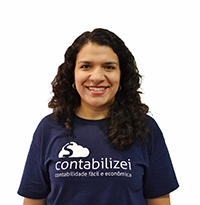
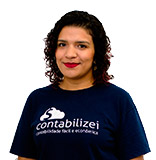
Atualização página sobre nós.

diff --git a/contabilizei-contabilidade-online/index.html b/contabilizei-contabilidade-online/index.html
@@ -157,7 +157,7 @@
 	            <br><p><strong>Missão:</strong> somos apaixonados por contabilidade e queremos democratizar os serviços contábeis para que micro e pequenos empresários possam manter seus negócios regularizados através de uma contabilidade fácil e econômica.</p>
 	          </div>
             <div class="col-lg-6 col-md-6 col-sm-6" align="center">
-				<img alt="equipe contabilizei contabilidade online" retina="true" src="/../assets/img/equipe.jpg" class="img-thumbnail img-responsive">
+				<img alt="equipe contabilizei contabilidade online" retina="true" src="/assets/img/equipe.jpg" class="img-thumbnail img-responsive">
             </div><!-- /.col-lg-6 -->
 	        </div> <!--row-->
         </div>
@@ -172,58 +172,76 @@
         	</div>
         	<div class="row" align="center">
 
-
+                
+                <div class="col-lg-3 col-md-3 col-sm-3">
+					<img alt="equipe contabilizei contabilidade online" retina="true" src="/assets/img/equipe/aline.jpg" class="img-rounded img-responsive" style="height:160px">
+        			<h6><strong>Aline Güthner</strong></h6>
+        			<h6>Analista Contábil</h6>
+        		</div>
+                
+                
         		<div class="col-lg-3 col-md-3 col-sm-3">
-					<img alt="equipe contabilizei contabilidade online" retina="true" src="/../assets/img/equipe/anderson.jpg" class="img-rounded img-responsive" style="height:160px">
+					<img alt="equipe contabilizei contabilidade online" retina="true" src="/assets/img/equipe/anderson.jpg" class="img-rounded img-responsive" style="height:160px">
         			<h6><strong>Anderson Engroff</strong></h6>
         			<h6>Desenvolvedor Ninja</h6>
         		</div>
+                
+                <div class="col-lg-3 col-md-3 col-sm-3">
+					<img alt="equipe contabilizei contabilidade online" retina="true" src="/assets/img/equipe/andressa.jpg" class="img-rounded img-responsive" style="height:160px">
+        			<h6><strong>Andressa Pereira</strong></h6>
+        			<h6>Especialista Societário</h6>
+        		</div>
 
         		<div class="col-lg-3 col-md-3 col-sm-3">
-					<img alt="equipe contabilizei contabilidade online" retina="true" src="/../assets/img/equipe/andrea.jpg" class="img-rounded img-responsive" style="height:160px">
+					<img alt="equipe contabilizei contabilidade online" retina="true" src="/assets/img/equipe/andrea.jpg" class="img-rounded img-responsive" style="height:160px">
         			<h6><strong>Andrea Krueger</strong></h6>
         			<h6>Analista Contábil <small><strong>(CRC-PR 067730/O-7)</strong></small></h6>
         		</div>
 
-        		<div class="col-lg-3 col-md-3 col-sm-3">
-					<img alt="equipe contabilizei contabilidade online" retina="true" src="/../assets/img/equipe/barbara.jpg" class="img-rounded img-responsive" style="height:160px">
+        		
+
+
+
+<!--
+        	</div>row<br><br>
+
+        	<div class="row" align="center">
+-->
+                
+                <div class="col-lg-3 col-md-3 col-sm-3">
+					<img alt="equipe contabilizei contabilidade online" retina="true" src="/assets/img/equipe/barbara.jpg" class="img-rounded img-responsive" style="height:160px">
         			<h6><strong>Bárbara Moreno</strong></h6>
         			<h6>Analista Societário</h6>
         		</div>
 
         		<div class="col-lg-3 col-md-3 col-sm-3">
-					<img alt="equipe contabilizei contabilidade online" retina="true" src="/../assets/img/equipe/bruno.jpg" class="img-rounded img-responsive" style="height:160px">
+					<img alt="equipe contabilizei contabilidade online" retina="true" src="/assets/img/equipe/bruno.jpg" class="img-rounded img-responsive" style="height:160px">
         			<h6><strong>Bruno Ferreira</strong></h6>
         			<h6>Financeiro</h6>
         		</div>
-
-
-
-        	</div><!--row--><br><br>
-
-        	<div class="row" align="center">
-
+                
+                
         		<div class="col-lg-3 col-md-3 col-sm-3">
-					<img alt="equipe contabilizei contabilidade online" retina="true" src="/../assets/img/equipe/charles.jpg" class="img-rounded img-responsive" style="height:160px">
+					<img alt="equipe contabilizei contabilidade online" retina="true" src="/assets/img/equipe/charles.jpg" class="img-rounded img-responsive" style="height:160px">
         			<h6><strong>Charles Gularte</strong></h6>
         			<h6>Operações</h6>
         		</div>
 
         		<div class="col-lg-3 col-md-3 col-sm-3">
-					<img alt="equipe contabilizei contabilidade online" retina="true" src="/../assets/img/equipe/cris.jpg" class="img-rounded img-responsive" style="height:160px">
+					<img alt="equipe contabilizei contabilidade online" retina="true" src="/assets/img/equipe/cris.jpg" class="img-rounded img-responsive" style="height:160px">
         			<h6><strong>Cristiane Morais</strong></h6>
         			<h6>Auxiliar Contábil</h6>
         		</div>
 
         		<div class="col-lg-3 col-md-3 col-sm-3">
-					<img alt="equipe contabilizei contabilidade online" retina="true" src="/../assets/img/equipe/denise.jpg" class="img-rounded img-responsive" style="height:160px">
+					<img alt="equipe contabilizei contabilidade online" retina="true" src="/assets/img/equipe/denise.jpg" class="img-rounded img-responsive" style="height:160px">
         			<h6><strong>Denise Helena</strong></h6>
-        			<h6>Encantadora de Clientes</h6>
+        			<h6>Engajamento</h6>
         		</div>
         		<div class="col-lg-3 col-md-3 col-sm-3">
-					<img alt="equipe contabilizei contabilidade online" retina="true" src="/../assets/img/equipe/desiree.jpg" class="img-rounded img-responsive" style="height:160px">
+					<img alt="equipe contabilizei contabilidade online" retina="true" src="/assets/img/equipe/desiree.jpg" class="img-rounded img-responsive" style="height:160px">
         			<h6><strong>Desirée Almeida</strong></h6>
-        			<h6>Encantadora de Clientes</h6>
+        			<h6>Aquisição</h6>
         		</div>
 
 
@@ -231,64 +249,85 @@
 
 
 
-        	</div><!--row--><br><br>
+
+<!--
+        	</div>row<br><br>
 
         	<div class="row" align="center">
+-->
 
         		<div class="col-lg-3 col-md-3 col-sm-3">
-					<img alt="equipe contabilizei contabilidade online" retina="true" src="/../assets/img/equipe/diego.jpg" class="img-rounded img-responsive" style="height:160px">
+					<img alt="equipe contabilizei contabilidade online" retina="true" src="/assets/img/equipe/diego.jpg" class="img-rounded img-responsive" style="height:160px">
         			<h6><strong>Diego de Carvalho</strong></h6>
         			<h6>Desenvolvedor Ninja</h6>
         		</div>
 
         		<div class="col-lg-3 col-md-3 col-sm-3">
-					<img alt="equipe contabilizei contabilidade online" retina="true" src="/../assets/img/equipe/eduardo.jpg" class="img-rounded img-responsive" style="height:160px">
+					<img alt="equipe contabilizei contabilidade online" retina="true" src="/assets/img/equipe/eduardo.jpg" class="img-rounded img-responsive" style="height:160px">
         			<h6><strong>Eduardo Souza</strong></h6>
         			<h6>Desenvolvedor Ninja</h6>
         		</div>
         		<div class="col-lg-3 col-md-3 col-sm-3">
-					<img alt="equipe contabilizei contabilidade online" retina="true" src="/../assets/img/equipe/elio.jpg" class="img-rounded img-responsive" style="height:160px">
+					<img alt="equipe contabilizei contabilidade online" retina="true" src="/assets/img/equipe/elio.jpg" class="img-rounded img-responsive" style="height:160px">
         			<h6><strong>Elio Marcolino</strong></h6>
         			<h6>Desenvolvedor Ninja</h6>
         		</div>
 
         		<div class="col-lg-3 col-md-3 col-sm-3">
-					<img alt="equipe contabilizei contabilidade online" retina="true" src="/../assets/img/equipe/fabio.jpg" class="img-rounded img-responsive" style="height:160px">
+					<img alt="equipe contabilizei contabilidade online" retina="true" src="/assets/img/equipe/fabio.jpg" class="img-rounded img-responsive" style="height:160px">
         			<h6><strong>Fábio Bacarin</strong></h6>
         			<h6>CTO</h6>
         		</div>
 
+                
+                <div class="col-lg-3 col-md-3 col-sm-3">
+					<img alt="equipe contabilizei contabilidade online" retina="true" src="/assets/img/equipe/fabioribeiro.jpg" class="img-rounded img-responsive" style="height:160px">
+        			<h6><strong>Fabio Ribeiro</strong></h6>
+        			<h6>Analista Societário</h6>
+        		</div>
 
 
 
 
 
-
-
-        	</div><!--row--><br><br>
+<!--
+        	</div>row<br><br>
 
         	<div class="row" align="center">
+-->
 
         		<div class="col-lg-3 col-md-3 col-sm-3">
-					<img alt="equipe contabilizei contabilidade online" retina="true" src="/../assets/img/equipe/fabiopaulek.jpg" class="img-rounded img-responsive" style="height:160px">
-        			<h6><strong>Fábio Paulek</strong></h6>
-        			<h6>Desenvolvedor Ninja</h6>
+					<img alt="equipe contabilizei contabilidade online" retina="true" src="/assets/img/equipe/felipemoser.jpg" class="img-rounded img-responsive" style="height:160px">
+        			<h6><strong>Felipe Moser</strong></h6>
+        			<h6>Especialista Societário</h6>
         		</div>
 
         		<div class="col-lg-3 col-md-3 col-sm-3">
-					<img alt="equipe contabilizei contabilidade online" retina="true" src="/../assets/img/equipe/fernando-3.jpg" class="img-rounded img-responsive" style="height:160px">
+					<img alt="equipe contabilizei contabilidade online" retina="true" src="/assets/img/equipe/fernando-3.jpg" class="img-rounded img-responsive" style="height:160px">
         			<h6><strong>Fernando Colnaghi</strong></h6>
         			<h6>Desenvolvedor Ninja</h6>
         		</div>
 
         		<div class="col-lg-3 col-md-3 col-sm-3">
-					<img alt="equipe contabilizei contabilidade online" retina="true" src="/../assets/img/equipe/gabriel.jpg" class="img-rounded img-responsive" style="height:160px">
+					<img alt="equipe contabilizei contabilidade online" retina="true" src="/assets/img/equipe/gabriel.jpg" class="img-rounded img-responsive" style="height:160px">
         			<h6><strong>Gabriel Peixoto</strong></h6>
-        			<h6>Especialista Societário</h6>
+        			<h6>Engajamento</h6>
+        		</div>
+                
+                <div class="col-lg-3 col-md-3 col-sm-3">
+					<img alt="equipe contabilizei contabilidade online" retina="true" src="/assets/img/equipe/guilherme.jpg" class="img-rounded img-responsive" style="height:160px">
+        			<h6><strong>Guilherme Zanoni</strong></h6>
+        			<h6>Gerente de Produto</h6>
+        		</div>
+                
+                <div class="col-lg-3 col-md-3 col-sm-3">
+					<img alt="equipe contabilizei contabilidade online" retina="true" src="/assets/img/equipe/gustavo.jpg" class="img-rounded img-responsive" style="height:160px">
+        			<h6><strong>Gustavo Gimenes</strong></h6>
+        			<h6>Analista Contábil</h6>
         		</div>
 
         		<div class="col-lg-3 col-md-3 col-sm-3">
-					<img alt="equipe contabilizei contabilidade online" retina="true" src="/../assets/img/equipe/heber.jpg" class="img-rounded img-responsive" style="height:160px">
+					<img alt="equipe contabilizei contabilidade online" retina="true" src="/assets/img/equipe/heber.jpg" class="img-rounded img-responsive" style="height:160px">
         			<h6><strong>Heber Dionizio</strong></h6>
         			<h6>Contador <small><strong>(CRC-PR 054502/O-4)</strong></small></h6>
         		</div>
@@ -297,30 +336,42 @@
 
 
 
-        	</div><!--row--><br><br>
+
+<!--
+        	</div>row<br><br>
 
         	<div class="row" align="center">
+-->
+
+        		
 
         		<div class="col-lg-3 col-md-3 col-sm-3">
-					<img alt="equipe contabilizei contabilidade online" retina="true" src="/../assets/img/equipe/jackson.jpg" class="img-rounded img-responsive" style="height:160px">
-        			<h6><strong>Jackson Teixeira</strong></h6>
-        			<h6>Desenvolvedor Ninja</h6>
-        		</div>
-
-        		<div class="col-lg-3 col-md-3 col-sm-3">
-					<img alt="equipe contabilizei contabilidade online" retina="true" src="/../assets/img/equipe/juliana.jpg" class="img-rounded img-responsive" style="height:160px">
+					<img alt="equipe contabilizei contabilidade online" retina="true" src="/assets/img/equipe/juliana.jpg" class="img-rounded img-responsive" style="height:160px">
         			<h6><strong>Juliana Ferrer</strong></h6>
-        			<h6>Encantadora de Clientes</h6>
+        			<h6>Engajamento</h6>
+        		</div>
+                
+                <div class="col-lg-3 col-md-3 col-sm-3">
+					<img alt="equipe contabilizei contabilidade online" retina="true" src="/assets/img/equipe/julianaribas.jpg" class="img-rounded img-responsive" style="height:160px">
+        			<h6><strong>Juliana Ribas</strong></h6>
+        			<h6>Contadora</h6>
         		</div>
 
         		<div class="col-lg-3 col-md-3 col-sm-3">
-					<img alt="equipe contabilizei contabilidade online" retina="true" src="/../assets/img/equipe/luana.jpg" class="img-rounded img-responsive" style="height:160px">
+					<img alt="equipe contabilizei contabilidade online" retina="true" src="/assets/img/equipe/luana.jpg" class="img-rounded img-responsive" style="height:160px">
         			<h6><strong>Luana Bruni</strong></h6>
         			<h6>Especialista Societário</h6>
         		</div>
 
+                
+                <div class="col-lg-3 col-md-3 col-sm-3">
+					<img alt="equipe contabilizei contabilidade online" retina="true" src="/assets/img/equipe/lucas.jpg" class="img-rounded img-responsive" style="height:160px">
+        			<h6><strong>Lucas Rezende</strong></h6>
+        			<h6>Especialista Societário</h6>
+        		</div>
+                
         		<div class="col-lg-3 col-md-3 col-sm-3">
-					<img alt="equipe contabilizei contabilidade online" retina="true" src="/../assets/img/equipe/marcella.jpg" class="img-rounded img-responsive" style="height:160px">
+					<img alt="equipe contabilizei contabilidade online" retina="true" src="/assets/img/equipe/marcella.jpg" class="img-rounded img-responsive" style="height:160px">
         			<h6><strong>Marcella Moreno</strong></h6>
         			<h6>Especialista Societário</h6>
         		</div>
@@ -331,62 +382,66 @@
 
 
 
-        	</div><!--row--><br><br>
+<!--
+        	</div>row<br><br>
 
         	<div class="row" align="center">
+-->
 
         		<div class="col-lg-3 col-md-3 col-sm-3">
-					<img alt="equipe contabilizei contabilidade online" retina="true" src="/../assets/img/equipe/marcusvinicius.jpg" class="img-rounded img-responsive" style="height:160px">
+					<img alt="equipe contabilizei contabilidade online" retina="true" src="/assets/img/equipe/marcusvinicius.jpg" class="img-rounded img-responsive" style="height:160px">
         			<h6><strong>Marcos Vinicius</strong></h6>
-        			<h6>Especialista Societário</h6>
+        			<h6>Engajamento</h6>
         		</div>
 
         		<div class="col-lg-3 col-md-3 col-sm-3">
-					<img alt="equipe contabilizei contabilidade online" retina="true" src="/../assets/img/equipe/mauricio.jpg" class="img-rounded img-responsive" style="height:160px">
+					<img alt="equipe contabilizei contabilidade online" retina="true" src="/assets/img/equipe/mauricio.jpg" class="img-rounded img-responsive" style="height:160px">
         			<h6><strong>Mauricio Pelissari</strong></h6>
         			<h6>Desenvolvedor Ninja</h6>
         		</div>
 
-        		<div class="col-lg-3 col-md-3 col-sm-3">
-					<img alt="equipe contabilizei contabilidade online" retina="true" src="/../assets/img/equipe/nicole.jpg" class="img-rounded img-responsive" style="height:160px">
-        			<h6><strong>Nicole Pertercen</strong></h6>
-        			<h6>Especialista Societário</h6>
-        		</div>
+        		
 
         		<div class="col-lg-3 col-md-3 col-sm-3">
-					<img alt="equipe contabilizei contabilidade online" retina="true" src="/../assets/img/equipe/otavio.jpg" class="img-rounded img-responsive" style="height:160px">
+					<img alt="equipe contabilizei contabilidade online" retina="true" src="/assets/img/equipe/otavio.jpg" class="img-rounded img-responsive" style="height:160px">
         			<h6><strong>Otávio Torres</strong></h6>
         			<h6>Encantador de Clientes</h6>
         		</div>
 
+                <div class="col-lg-3 col-md-3 col-sm-3">
+					<img alt="equipe contabilizei contabilidade online" retina="true" src="/assets/img/equipe/roberto.jpg" class="img-rounded img-responsive" style="height:160px">
+        			<h6><strong>Robero Elero Junior</strong></h6>
+        			<h6>Desenvolvedor Ninja</h6>
+        		</div>
 
 
 
+<!--
+        	</div>row<br><br>
 
-        	</div><br><br>
-
-     		<div class="row" align="center">
+        	<div class="row" align="center">
+-->
 
         		<div class="col-lg-3 col-md-3 col-sm-3">
-					<img alt="equipe contabilizei contabilidade online" retina="true" src="/../assets/img/equipe/thaiana.jpg" class="img-rounded img-responsive" style="height:160px">
+					<img alt="equipe contabilizei contabilidade online" retina="true" src="/assets/img/equipe/thaiana.jpg" class="img-rounded img-responsive" style="height:160px">
         			<h6><strong>Thaiana Trevisan</strong></h6>
-        			<h6>Analista de Marketing</h6>
+        			<h6>Office Manager</h6>
         		</div>
 
      			<div class="col-lg-3 col-md-3 col-sm-3">
-					<img alt="equipe contabilizei contabilidade online" retina="true" src="/../assets/img/equipe/victor-santos.jpg" class="img-rounded img-responsive" style="height:160px">
+					<img alt="equipe contabilizei contabilidade online" retina="true" src="/assets/img/equipe/victor-santos.jpg" class="img-rounded img-responsive" style="height:160px">
         			<h6><strong>Victor Santos</strong></h6>
         			<h6>UX Designer</h6>
         		</div>
 
         		<div class="col-lg-3 col-md-3 col-sm-3">
-					<img alt="equipe contabilizei contabilidade online" retina="true" src="/../assets/img/equipe/vitor.jpg" class="img-rounded img-responsive" style="height:160px">
+					<img alt="equipe contabilizei contabilidade online" retina="true" src="/assets/img/equipe/vitor.jpg" class="img-rounded img-responsive" style="height:160px">
         			<h6><strong>Vitor Torres</strong></h6>
         			<h6>CEO</h6>
         		</div>
 
         		<div class="col-lg-3 col-md-3 col-sm-3">
-					<img alt="equipe contabilizei contabilidade online" retina="true" src="/../assets/img/equipe/willian.jpg" class="img-rounded img-responsive" style="height:160px">
+					<img alt="equipe contabilizei contabilidade online" retina="true" src="/assets/img/equipe/willian.jpg" class="img-rounded img-responsive" style="height:160px">
         			<h6><strong>Willian Coelho</strong></h6>
         			<h6>Analista Contábil <small><strong>(CRC-PR 068689/O-3)</strong></small></h6>
         		</div>
@@ -414,12 +469,12 @@
         		</div>
         		<div class="col-lg-6 col-md-6 col-sm-6">
 
-        			<a href="http://www.kaszek.com" target="_blank"><img src="/../assets/img/kaszek.png"></a>
+        			<a href="http://www.kaszek.com" target="_blank"><img src="/assets/img/kaszek.png"></a>
         			<hr><small>A KaszeK Ventures é a gestora de Venture Capital criada em 2011 por Nicolás Szekasy e Hernán Kazah, os fundadores do Mercado Livre. Com o plano de investir em companhias de tecnologia e alto impacto na América Latina, já faz aportes em mais de 32 empresas de seis países, dentre elas a Netshoes, VivaReal, Open English e GuiaBolso. A Venture Capital possui dois fundos de investimentos que, juntos, somam mais de 200 milhões de dólares.</small>
         		</div>
         		<div class="col-lg-6 col-md-6 col-sm-6">
 
-        			<a href="http://www.curitibaangels.com.br" target="_blank"><img src="/../assets/img/curitibaangels.png"></a>
+        			<a href="http://www.curitibaangels.com.br" target="_blank"><img src="/assets/img/curitibaangels.png"></a>
         			<hr><small>A Curitiba Angels é um grupo de investidores anjos fundada em 2014. O grupo apoia empreendedores que desenvolvem empresas extraordinárias com potencial para criar novos setores e segmentos, gerar disrupção em setores existentes ou modificar a curva de valor na entrega de produtos e serviços já existentes.</small>
         		</div>
         </div>
